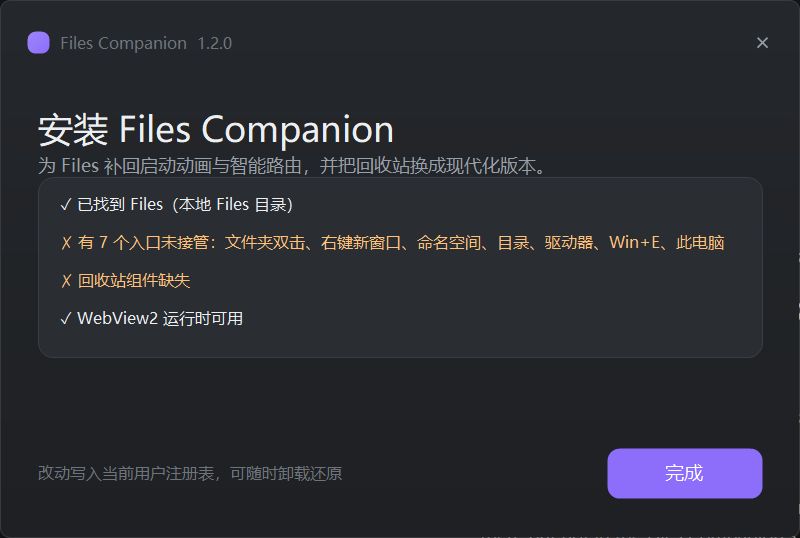
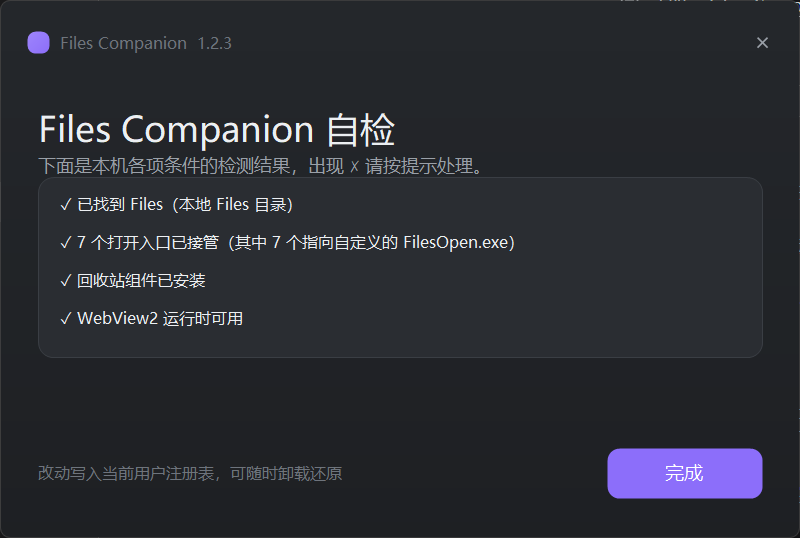
fix: a working Recycle Bin read as missing, and the DPI was wrong
--verify only looked at the folder the installer would have used, so a hand-made setup whose shell keys point at its own RecycleBin.exe was reported as X 回收站组件缺失. It now reads the redirect keys and reports the custom location -- the same mistake 1.2.2 fixed for the shim, with the bin half left behind. --doctor reported 96 (100%) on a 125% display because the shim stays DPI-unaware on purpose; the doctor run now becomes aware for that run only and prints the real number.

Also: refresh-vendor.ps1 no longer hardcodes this machine's project path (defaults to the sibling checkout), and docs/screenshot-verify.png is re-shot -- the published one still showed the 1.2.0 report with two red crosses.

diff --git a/src/FilesOpen.cs b/src/FilesOpen.cs
@@ -52,6 +52,8 @@ internal static class Program
     private static extern bool UpdateLayeredWindow(IntPtr hwnd, IntPtr hdcDst, ref POINT pptDst,
         ref SIZE psize, IntPtr hdcSrc, ref POINT pptSrc, int crKey, ref BLENDFUNCTION pblend, int dwFlags);
 
+    [DllImport("user32.dll")] private static extern bool SetProcessDPIAware();
+    [DllImport("user32.dll")] private static extern uint GetDpiForSystem();
     [DllImport("user32.dll")] private static extern IntPtr GetDC(IntPtr hWnd);
     [DllImport("user32.dll")] private static extern int ReleaseDC(IntPtr hWnd, IntPtr hDC);
     [DllImport("gdi32.dll")] private static extern IntPtr CreateCompatibleDC(IntPtr hDC);
@@ -409,12 +411,20 @@ internal static class Program
         text += "Windows     : " + Environment.OSVersion.VersionString + Environment.NewLine;
         text += "64-bit OS   : " + (Environment.Is64BitOperatingSystem ? "yes" : "no") + Environment.NewLine;
         text += "64-bit proc : " + (Environment.Is64BitProcess ? "yes" : "no") + Environment.NewLine;
-        try
+        // This process deliberately stays DPI-unaware (see PlayAnimation), which
+        // makes the desktop DC report a virtualised 96 dpi on a scaled display.
+        // --doctor runs before any window exists and exits straight after, so
+        // becoming aware here is safe - and it is the only way to print the real
+        // number instead of a number that hides the very scaling the user sees.
+        int dpi = 0;
+        try { SetProcessDPIAware(); } catch { }
+        try { dpi = (int)GetDpiForSystem(); } catch { dpi = 0; }
+        if (dpi <= 0)
         {
-            using (var g = Graphics.FromHwnd(IntPtr.Zero))
-                text += "Display DPI : " + g.DpiX + " (" + (int)Math.Round(g.DpiX / 96.0 * 100) + "%)" + Environment.NewLine;
+            try { using (var g = Graphics.FromHwnd(IntPtr.Zero)) dpi = (int)g.DpiX; } catch { }
         }
-        catch { }
+        if (dpi <= 0) dpi = 96;
+        text += "Display DPI : " + dpi + " (" + (int)Math.Round(dpi / 96.0 * 100) + "%)" + Environment.NewLine;
         text += Environment.NewLine;
 
         // --- where is Files ---------------------------------------------------
@@ -466,10 +476,24 @@ internal static class Program
         text += Environment.NewLine;
 
         // --- the Recycle Bin component ---------------------------------------
+        // The bin does not have to live in the folder we would have installed it
+        // to: a hand-made setup points the shell keys at its own copy, and calling
+        // that "missing" is the very mistake the shim check used to make.
         text += "Recycle Bin component" + Environment.NewLine;
         string rb = Path.Combine(Environment.GetFolderPath(Environment.SpecialFolder.LocalApplicationData),
             @"ModernRecycleBin\RecycleBin.exe");
-        text += "  " + (File.Exists(rb) ? "OK      : " + rb : "MISSING : " + rb) + Environment.NewLine;
+        string customRb = null;
+        if (!File.Exists(rb))
+        {
+            customRb = ExistingExe(RedirectTarget(
+                @"SOFTWARE\Classes\CLSID\{645FF040-5081-101B-9F08-00AA002F954E}\shell\open\command"));
+        }
+        if (File.Exists(rb))
+            text += "  OK      : " + rb + Environment.NewLine;
+        else if (customRb != null)
+            text += "  OK      : " + customRb + " (custom location)" + Environment.NewLine;
+        else
+            text += "  MISSING : " + rb + Environment.NewLine;
         text += "  WebView2: " + (WebView2Present() ? "installed" : "MISSING - the Recycle Bin UI needs it") + Environment.NewLine;
         text += Environment.NewLine;
 
@@ -488,6 +512,41 @@ internal static class Program
         Log("doctor written to " + outPath);
 
         try { Process.Start("notepad.exe", "\"" + outPath + "\""); } catch { }
+    }
+
+    /// <summary>Reads the command line a shell key is redirected to. Null when the
+    /// key is absent or unreadable.</summary>
+    private static string RedirectTarget(string sub)
+    {
+        try
+        {
+            using (Microsoft.Win32.RegistryKey k = Microsoft.Win32.Registry.CurrentUser.OpenSubKey(sub))
+                if (k != null) return k.GetValue(string.Empty) as string;
+        }
+        catch { }
+        return null;
+    }
+
+    /// <summary>Pulls the executable out of a shell command line
+    /// ("\"C:\\dir\\x.exe\" \"%1\"" becomes C:\dir\x.exe) and returns it only when
+    /// the file is still there - a stale redirect must not read as healthy.</summary>
+    private static string ExistingExe(string command)
+    {
+        if (string.IsNullOrEmpty(command)) return null;
+        string p = command.Trim();
+        if (p.StartsWith("\""))
+        {
+            int end = p.IndexOf('"', 1);
+            if (end < 1) return null;
+            p = p.Substring(1, end - 1);
+        }
+        else
+        {
+            int sp = p.IndexOf(' ');
+            if (sp > 0) p = p.Substring(0, sp);
+        }
+        p = p.Trim();
+        return (p.Length > 0 && File.Exists(p)) ? p : null;
     }
 
     /// <summary>The Recycle Bin UI is rendered by WebView2, so its runtime has to be

diff --git a/installer/Setup.cs b/installer/Setup.cs
@@ -42,7 +42,7 @@ using Microsoft.Win32;
 internal static class Program
 {
     internal const string AppName = "Files Companion";
-    internal const string Version = "1.2.2";
+    internal const string Version = "1.2.3";
     internal const string RecycleBinClsid = "{645FF040-5081-101B-9F08-00AA002F954E}";
 
     internal static bool Silent;
@@ -393,7 +393,9 @@ internal static class Installer
         // 3) the Recycle Bin component
         if (withRecycleBin)
         {
+            string handMade = HandMadeRecycleBin();
             if (File.Exists(RecycleBinExe)) lines.Add("✓ 回收站组件已安装");
+            else if (handMade != null) lines.Add("✓ 回收站组件已就位（自定义位置：" + handMade + "）");
             else lines.Add("✗ 回收站组件缺失");
 
             if (WebView2Installed()) lines.Add("✓ WebView2 运行时可用");
@@ -401,6 +403,50 @@ internal static class Installer
         }
 
         return lines.ToArray();
+    }
+
+    /// <summary>The Recycle Bin may already be served by a copy the user deployed by
+    /// hand - the redirect keys point straight at it. 1.2.2 taught the FilesOpen
+    /// check to accept a custom shim; this is the same courtesy for the bin, so a
+    /// working hand-made setup is not reported as broken.</summary>
+    private static string HandMadeRecycleBin()
+    {
+        foreach (string sub in RecycleBinKeys)
+        {
+            string v = null;
+            try
+            {
+                using (RegistryKey k = Registry.CurrentUser.OpenSubKey(sub))
+                    if (k != null) v = k.GetValue(string.Empty) as string;
+            }
+            catch { }
+            string p = ExistingExe(v);
+            if (p != null && p.IndexOf(RecycleBinDir, StringComparison.OrdinalIgnoreCase) < 0)
+                return p;
+        }
+        return null;
+    }
+
+    /// <summary>Pulls the executable out of a shell command line
+    /// ("\"C:\\dir\\x.exe\" \"%1\"" becomes C:\dir\x.exe) and returns it only when
+    /// the file is still there. Returns null for empty, unparsable or dead paths.</summary>
+    private static string ExistingExe(string command)
+    {
+        if (string.IsNullOrEmpty(command)) return null;
+        string p = command.Trim();
+        if (p.StartsWith("\""))
+        {
+            int end = p.IndexOf('"', 1);
+            if (end < 1) return null;
+            p = p.Substring(1, end - 1);
+        }
+        else
+        {
+            int sp = p.IndexOf(' ');
+            if (sp > 0) p = p.Substring(0, sp);
+        }
+        p = p.Trim();
+        return (p.Length > 0 && File.Exists(p)) ? p : null;
     }
 
     internal static bool WebView2Installed()

diff --git a/docs/RELEASE-NOTES-v1.2.3.md b/docs/RELEASE-NOTES-v1.2.3.md
@@ -1,0 +1,29 @@
+## Files Companion 1.2.3 — the self-check tells the truth on any setup
+
+### Fixed
+
+- **`--verify` no longer calls a hand-made Recycle Bin "missing".** The check
+  looked only at the folder the installer itself would have used. If the shell
+  keys already pointed at your own `RecycleBin.exe`, the report said
+  `✗ 回收站组件缺失` even though the bin worked fine. It now reads the redirect
+  keys and reports `✓ 回收站组件已就位（自定义位置：…）` instead. This is the same
+  mistake 1.2.2 fixed for the `FilesOpen.exe` shim — the Recycle Bin half had
+  simply been left behind.
+- **`--doctor` prints the real display DPI.** It used to report `96 (100%)` on a
+  125% display: the shim deliberately stays DPI-unaware (see `PlayAnimation`),
+  and the desktop device context then hands back a virtualised 96. The doctor run
+  happens before any window exists and exits immediately, so it becomes aware for
+  that run only — and now reports `120 (125%)`, which is what you actually see.
+- **`--doctor` also accepts a Recycle Bin outside the installed folder**, and
+  prints its path with a `(custom location)` marker.
+
+### Why
+
+Both wrong numbers came out of the very report you would hand to someone whose
+setup does not work. A self-check that is wrong about a *working* component sends
+people hunting for a problem they do not have — and a DPI that reads 100% on
+every machine hides the one display question worth knowing about.
+
+Verified on Windows 11 at 125% scaling, with both a standard install and a
+hand-made setup: `--verify` shows four green checks, `--doctor` reports
+`120 (125%)`.
